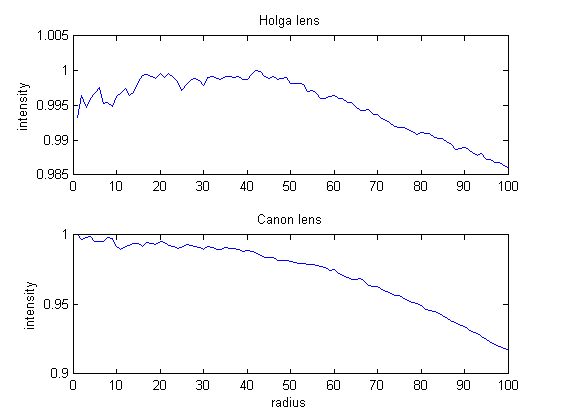
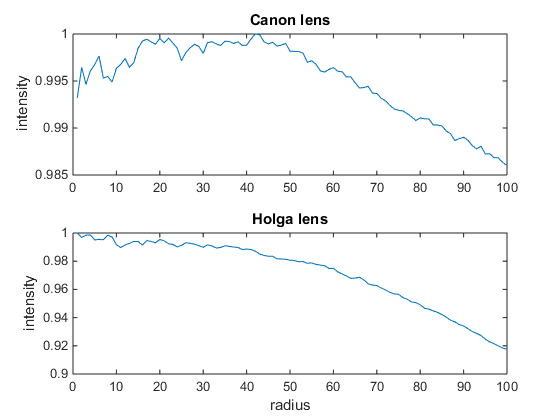
Fix
Ändrade namn

diff --git a/Lab2/Matlab/Lab2.m b/Lab2/Matlab/Lab2.m
@@ -51,12 +51,11 @@ end
 % Plot the images 
 subplot(2,1,1);
 plot(norm_average(:,1));
-title('Holga lens');
-%xlabel('radius');
+title('Canon lens');
 ylabel('intensity');
 subplot(2,1,2);
 plot(norm_average(:,2));
-title('Canon lens');
+title('Holga lens');
 xlabel('radius');ylabel('intensity');
 
 %%%%%%%%%%%%%%%%%%%%%%%%%%%%%%%%%%%%%%%%%%%%%%%%%%%%%%%%%%%%%%%%%%%%%%%%%%%
